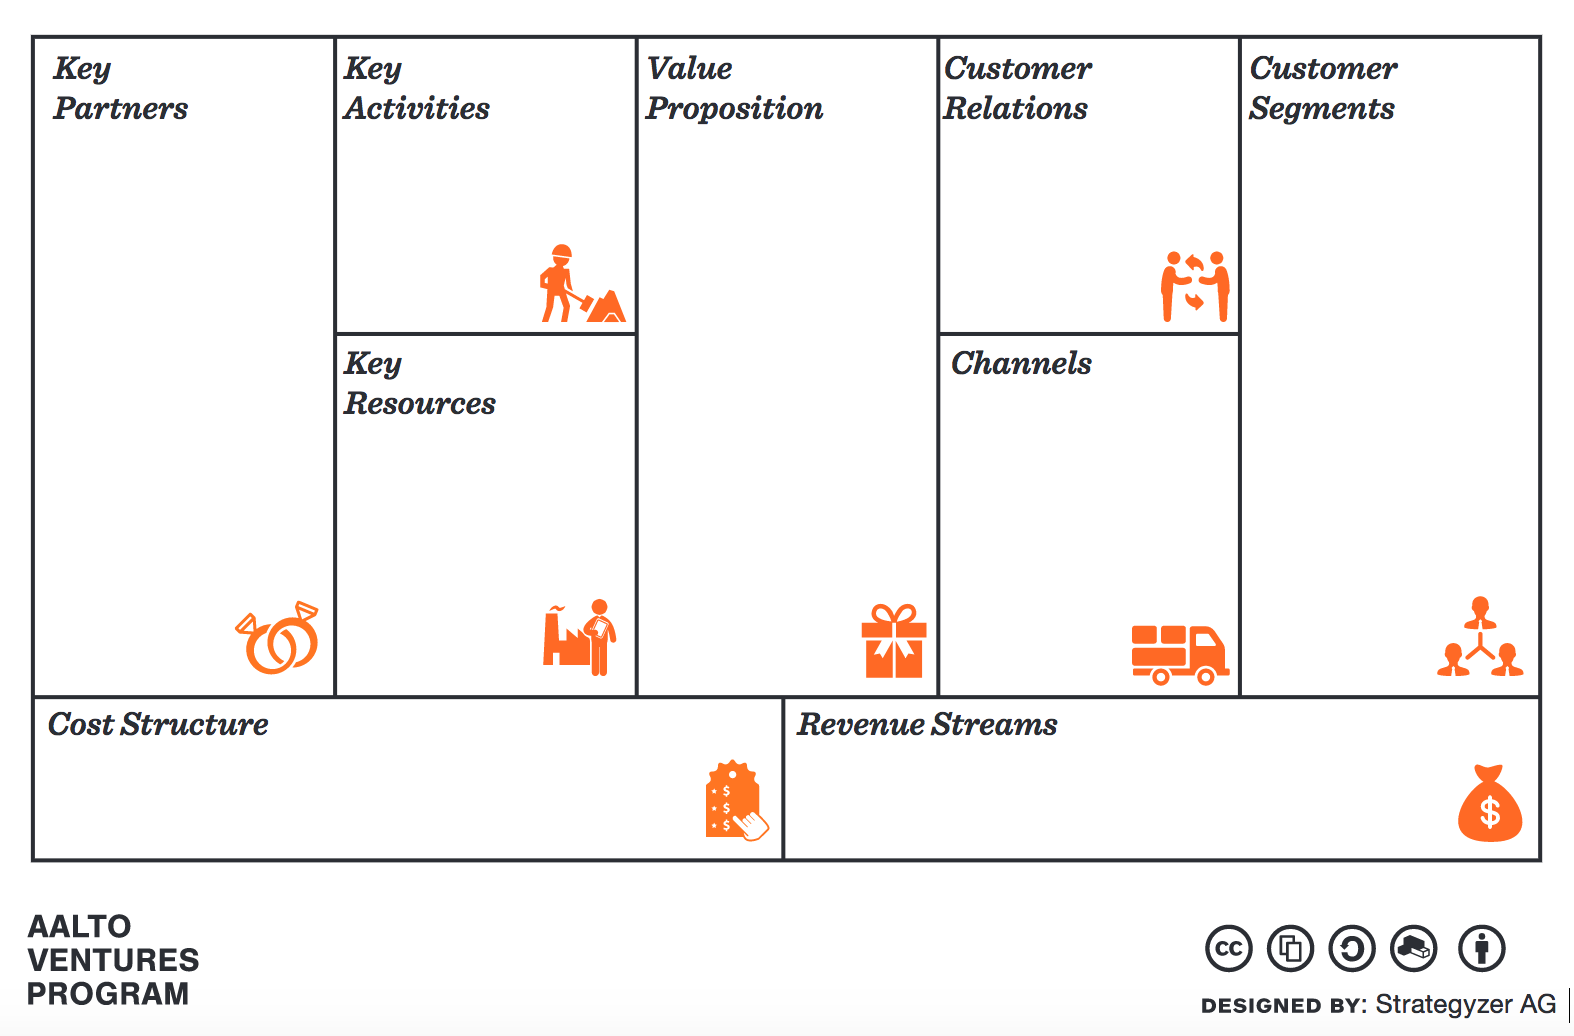
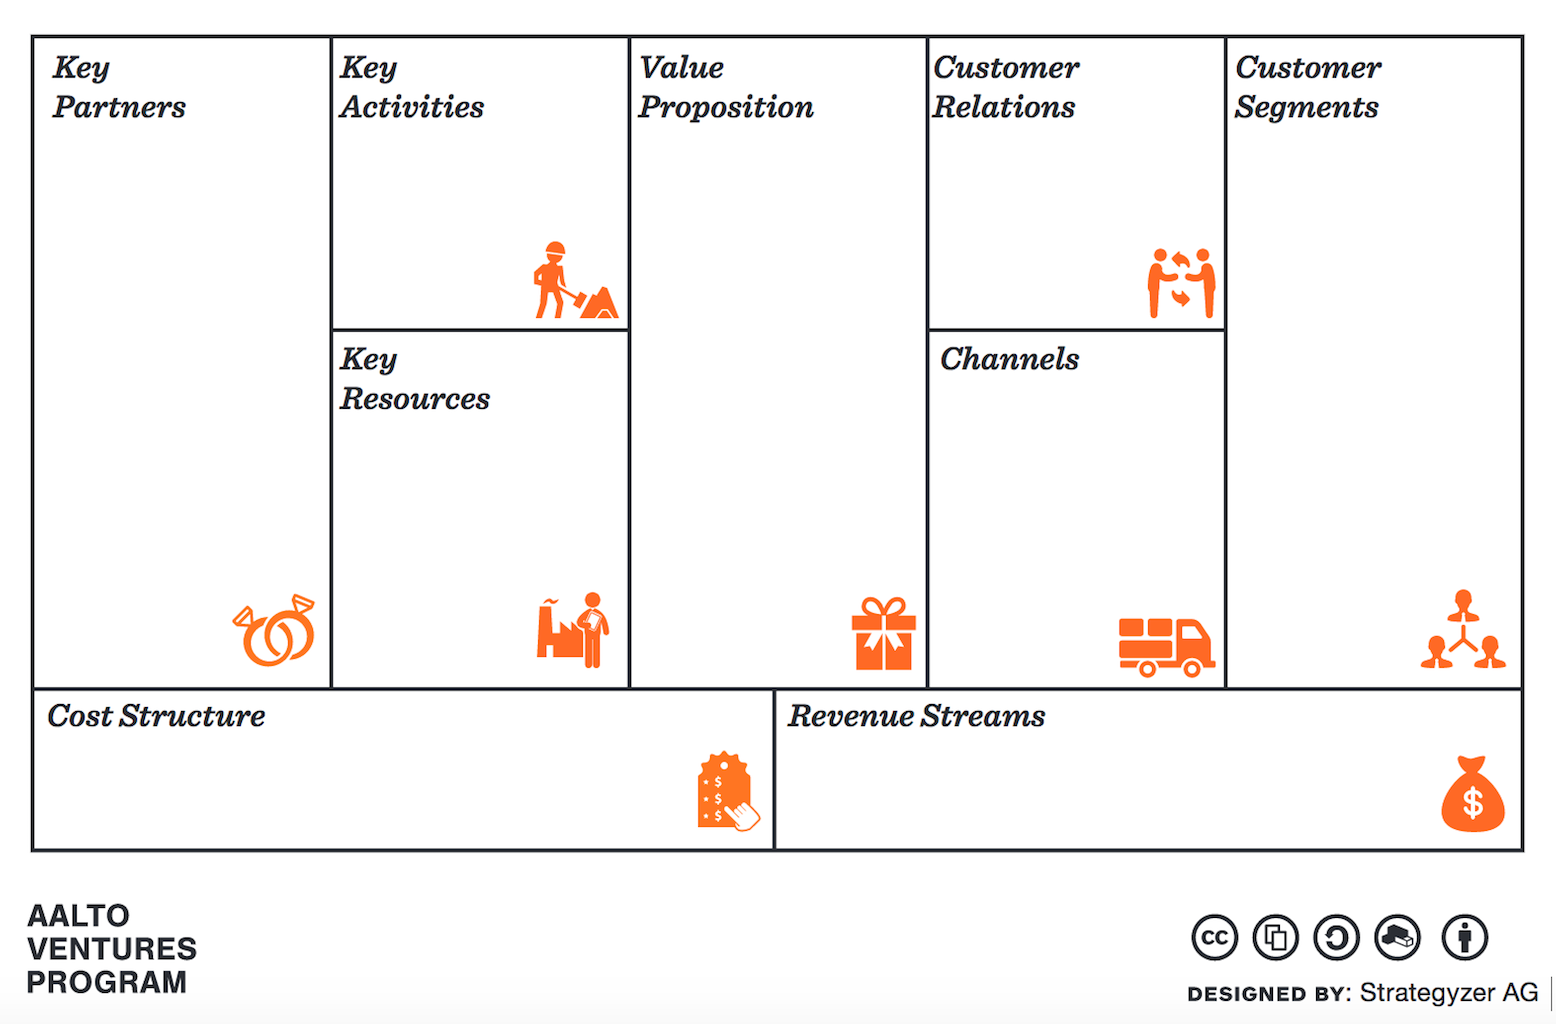
oops image format

diff --git a/bmc/index.html b/bmc/index.html
@@ -82,7 +82,7 @@
         this.size = size;
         this.wallGrid = new Uint8Array(size * size);
         this.skybox = new Bitmap('assets/deathvalley_panorama.jpg', 2000, 750);
-        this.wallTexture = new Bitmap('assets/bmc.jpg', 1024, 1024);
+        this.wallTexture = new Bitmap('assets/bmc.jpg', 1556, 1024);
         this.light = 0;
       }
 
